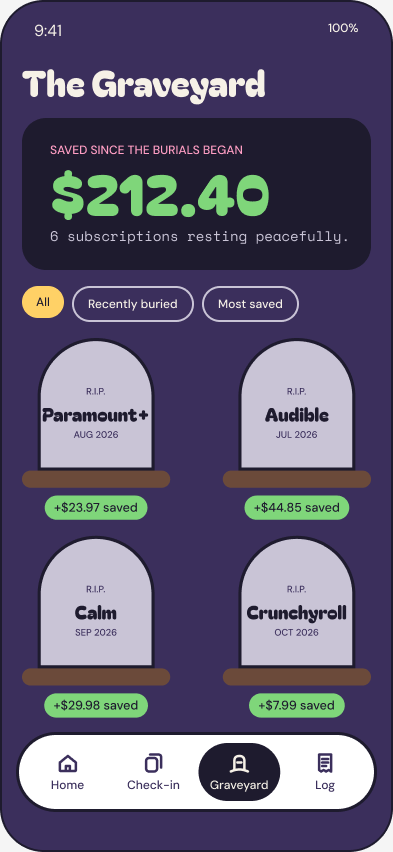
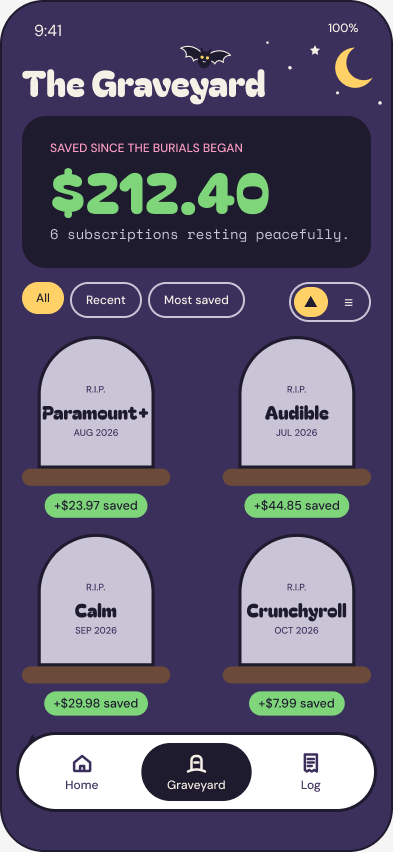
Subscription Graveyard case study: round two
New screens from Figma (ghosts, cheaper plans, switching, search, bats,
zombie, the log), a Pay less step in How it works, a Round two section
on what changed after using the app, and updated process, flow (9 lanes)
and screen count (38).

diff --git a/src/components/SubscriptionGraveyardModal.jsx b/src/components/SubscriptionGraveyardModal.jsx
@@ -64,18 +64,29 @@ const GAP = [
 ]
 
 const STEPS = [
-  ['/graveyard/screen-plot-found.png', 'Find them', 'Link a bank and Plot reads a year of charges, keeping only the ones that repeat. You remove anything that isn’t a subscription.'],
+  ['/graveyard/screen-spot-the-ghosts.png', 'Find them', 'Link a bank and Plot reads a year of charges, keeping only the ones that repeat. Free trials show up as ghosts, and add-ons sit under the subscription they’re billed through.'],
   ['/graveyard/screen-check-in-swipe.png', 'Check in once a month', 'On the 1st, swipe through each subscription and say how much you used it. It takes about two minutes.'],
   ['/graveyard/screen-verdict.png', 'Get the verdict', 'Plot sorts everything into worth it, on thin ice and shall we, and adds up what burying the last group would save.'],
   ['/graveyard/screen-shall-we-sheet.png', 'Bury the ones you don’t use', 'Plot opens the service’s own cancel page, then asks if it worked before it digs a grave.'],
+  ['/graveyard/screen-cheaper-plans.png', 'Pay less for the rest', 'For what you keep, Plot finds cheaper ways to pay: student and teacher discounts, things you pay for twice, yearly plans, plans with ads and bundles. Tap Switch and it walks you through it.'],
   ['/graveyard/screen-graveyard.png', 'Watch the savings', 'Every cancelled subscription gets a tombstone and counts toward what you’ve saved. Bring one back and it’s logged.'],
 ]
 
 const STRIP = [
-  ['/graveyard/screen-dashboard.png', 'Dashboard'], ['/graveyard/screen-plot-found.png', 'Plot found 9'], ['/graveyard/screen-check-in-swipe.png', 'Check-in'],
-  ['/graveyard/screen-verdict.png', 'The verdict'], ['/graveyard/screen-shall-we-sheet.png', 'Shall we?'], ['/graveyard/screen-rest-in-peace.png', 'Rest in peace'],
-  ['/graveyard/screen-graveyard.png', 'The Graveyard'], ['/graveyard/screen-resurrected.png', 'It’s back'],
+  ['/graveyard/screen-dashboard.png', 'Dashboard'], ['/graveyard/screen-spot-the-ghosts.png', 'Spot the ghosts'], ['/graveyard/screen-discounts-and-deals.png', 'Any of these you?'],
+  ['/graveyard/screen-check-in-swipe.png', 'Check-in'], ['/graveyard/screen-verdict.png', 'The verdict'], ['/graveyard/screen-cheaper-plans.png', 'Cheaper plans'],
+  ['/graveyard/screen-switched.png', 'Switched'], ['/graveyard/screen-rest-in-peace-bats.png', 'Rest in peace'], ['/graveyard/screen-graveyard.png', 'The Graveyard'],
+  ['/graveyard/screen-zombie-comeback.png', 'It’s back'], ['/graveyard/screen-the-log.png', 'The log'], ['/graveyard/screen-search-and-add.png', 'Search and add'],
 ]
+
+// Round two: what changed after using the working app every day
+const ROUND_TWO = [
+  ['/graveyard/screen-spot-the-ghosts.png', 'Free trials are ghosts', 'Toggles confused people, so trials became ghosts: tap anything that’s still free and it floats up with a countdown. Trials Plot spots in the bank, even ones inside another subscription, are already ghosts.'],
+  ['/graveyard/screen-search-and-add.png', 'Search, plans and add-ons', 'Search 34 popular services, pick your actual plan, and add what you bought inside it, like a Starz channel in Amazon Prime. Anything else can still be added by hand.'],
+  ['/graveyard/screen-cheaper-plans.png', 'Cheaper plans, switched in the app', 'Tell Plot you’re a student, teacher or in the military and it checks your list. Every deal has a Switch button: Plot hands you to the service, asks if it worked, then updates the bill and counts what you saved.'],
+  ['/graveyard/screen-zombie-comeback.png', 'The undead', 'Burying sends bats out of the grave, each service with its own effect: music notes for Spotify, falling boxes for Prime. Bring one back and a zombie in that service’s colors claws its way out.'],
+]
+const SIMPLER = ['Onboarding went from nine screens to five', 'The dashboard shows one alert at a time', 'Lists, the Graveyard and the log fold up when they get long', 'Every screen got a brand touch: moons, cobwebs, candles, fences']
 
 const MOODS = [
   ['Content', 'Default', 'Dashboard, empty states, onboarding.', '#E5F6E4'],
@@ -92,11 +103,12 @@ const SWATCHES = [
 const PROCESS = [
   ['Three ideas', 'I explored three concepts: a leftovers kitchen companion, a way to bury browser tabs, and a subscription graveyard. The graveyard had the clearest problem and the most room for a personality.'],
   ['Research', 'I compared six apps that handle subscriptions or money habits, plus Duolingo as a reference for a mascot and a small monthly ritual.'],
-  ['System flow', 'I mapped seven lanes: first launch, the monthly check-in, cost per use, trial alerts, burying, the Graveyard, and what the app does behind the scenes.'],
+  ['System flow', 'I mapped the whole app in lanes: first launch, the monthly check-in, cost per use, trial alerts, burying, the Graveyard, what happens behind the scenes, settings, and later cheaper plans and switching.'],
   ['Wireframes', 'Ten grayscale screens to test the flow before any color, from the dashboard to the resurrection log.'],
   ['Branding', 'Plot, the tombstone mascot, sets the tone: a little morbid, deadpan, never shaming. Four moods cover every state in the app.'],
-  ['Final screens and prototype', '28 screens in Figma built from a shared component set, linked into a clickable prototype.'],
+  ['Final screens and prototype', 'Screens in Figma built from a shared component set, linked into a clickable prototype.'],
   ['A working app', 'I turned the design into an app you can add to a phone’s home screen, built with Claude (an AI assistant). It connects to a demo bank through Plaid’s test mode, so no real bank data is used, and its cancel buttons open each service’s real account page.'],
+  ['Round two', 'Living with the app led to a second pass: ghosts for free trials, add-ons, search, discounts, switching to cheaper plans, burial and comeback animations, and a simpler onboarding. Every change went back into Figma, which now has 38 screens and the new components.'],
 ]
 
 const APP_URL = '/graveyard-app/'
@@ -105,7 +117,7 @@ const DETAILS = [
   ['Type', 'Mobile app'],
   ['Year', '2026'],
   ['Tools', 'Figma, HTML, CSS, JavaScript, Plaid (test mode)'],
-  ['Screens', '28'],
+  ['Screens', '38'],
 ]
 
 const TAGS = [['Mobile App', C.moss], ['Branding', C.blush], ['UX / UI', C.candle]]
@@ -135,7 +147,7 @@ function StepsCarousel() {
     >
       {/* Step tabs */}
       <div className="flex flex-wrap gap-2 mb-8 md:mb-10" role="tablist">
-        {['Find', 'Check in', 'Verdict', 'Bury', 'Save'].map((t, n) => (
+        {['Find', 'Check in', 'Verdict', 'Bury', 'Pay less', 'Save'].map((t, n) => (
           <button key={t} role="tab" aria-selected={n === i} onClick={() => setI(n)}
             className="text-sm font-medium px-4 py-2 rounded-full transition-colors"
             style={{ fontFamily: BODY, background: n === i ? C.candle : 'transparent', color: n === i ? C.ink : C.bone, border: `2px solid ${n === i ? C.candle : 'rgba(201,196,214,0.5)'}` }}>
@@ -225,7 +237,7 @@ export default function SubscriptionGraveyardModal({ onClose }) {
               <span className="block text-[44px] md:text-[64px]" style={{ color: C.blush }}>subscription</span>
               <span className="block text-[60px] md:text-[88px]" style={{ color: C.bone }}>graveyard</span>
             </h1>
-            <Body night className="max-w-md mx-auto md:mx-0 mb-7">An app that finds your subscriptions, asks once a month if they were worth it, and helps you cancel the ones that weren’t.</Body>
+            <Body night className="max-w-md mx-auto md:mx-0 mb-7">An app that finds your subscriptions, asks once a month if they were worth it, helps you cancel the ones that weren’t, and finds a cheaper way to pay for the rest.</Body>
             <div className="flex gap-2 flex-wrap justify-center md:justify-start">
               {TAGS.map(([tag, bg]) => (
                 <span key={tag} className="gy-btn text-xs font-medium px-3 py-1 rounded-full cursor-default" style={{ fontFamily: BODY, background: bg, color: C.ink, border: `2px solid ${C.ink}` }}>{tag}</span>
@@ -293,7 +305,7 @@ export default function SubscriptionGraveyardModal({ onClose }) {
         <div className="cs-container pt-16 md:pt-24 pb-12 md:pb-16">
           <Reveal>
             <Kicker night>How it works</Kicker>
-            <H2 night>Find, check in, bury.</H2>
+            <H2 night>Find, check in, bury, pay less.</H2>
           </Reveal>
           <Reveal delay={120}><StepsCarousel /></Reveal>
         </div>
@@ -308,6 +320,39 @@ export default function SubscriptionGraveyardModal({ onClose }) {
             ))}
           </div>
         </div>
+      </section>
+
+      {/* Round two: features added after living with the working app */}
+      <section className="cs-container py-16 md:py-24">
+        <Reveal>
+          <Kicker>Round two</Kicker>
+          <H2>Then I used it.</H2>
+          <Body className="cs-solo">Using the working app every day showed what was missing and what was too busy. I made a second round of changes in the app, then brought every one of them back into the Figma components and screens.</Body>
+        </Reveal>
+        <div className="grid grid-cols-1 md:grid-cols-2 gap-5 md:gap-6 mt-10">
+          {ROUND_TWO.map(([src, t, d], n) => (
+            <Reveal key={t} delay={n * 90}>
+              <div className="gy-card gy-lift h-full rounded-[24px] p-5 md:p-6 grid grid-cols-[38%_1fr] gap-5 items-center" style={{ background: n % 2 ? C.paper : C.ink, border: `2px solid ${C.ink}` }}>
+                <Phone night={!(n % 2)} src={src} alt={t} className="w-full" />
+                <div>
+                  <h3 className="text-[22px] md:text-[26px] leading-tight mb-2" style={{ fontFamily: DISPLAY, color: n % 2 ? C.ink : C.bone }}>{t}</h3>
+                  <p className="text-sm md:text-base leading-relaxed" style={{ fontFamily: BODY, color: n % 2 ? INK_TXT : BONE_TXT }}>{d}</p>
+                </div>
+              </div>
+            </Reveal>
+          ))}
+        </div>
+        <Reveal className="mt-5 md:mt-6">
+          <div className="rounded-[24px] p-6 md:p-7 flex flex-col md:flex-row md:items-center gap-5" style={{ background: C.candle, border: `2px solid ${C.ink}` }}>
+            <div className="gy-wiggle shrink-0" style={{ width: 84 }}><Plot mood="Resurrected" size={84} /></div>
+            <div>
+              <p className="text-[13px] font-bold uppercase tracking-[0.08em] mb-2" style={{ fontFamily: MONO, color: C.dirt }}>And it got simpler</p>
+              <ul className="grid md:grid-cols-2 gap-x-8 gap-y-1.5">
+                {SIMPLER.map(x => <li key={x} className="text-sm md:text-base flex gap-2" style={{ fontFamily: BODY, color: C.ink }}><svg viewBox="0 0 24 24" width="16" height="16" className="shrink-0 mt-1" aria-hidden="true"><path d="M6 21V10a6 6 0 0 1 12 0v11z" fill={C.stone} stroke={C.ink} strokeWidth="2" strokeLinejoin="round" /></svg>{x}</li>)}
+              </ul>
+            </div>
+          </div>
+        </Reveal>
       </section>
 
       {/* Brand, built live */}
@@ -376,7 +421,7 @@ export default function SubscriptionGraveyardModal({ onClose }) {
         </div>
 
         <Reveal as="figure" className="m-0 mt-12">
-          <img src="/graveyard/system-flow.png" alt="The system flow: seven lanes from first launch to behind the scenes" className="w-full rounded-[24px] block" style={{ border: `2px solid ${C.ink}` }} />
+          <img src="/graveyard/system-flow.png" alt="The system flow: nine lanes from first launch to cheaper plans and switching" className="w-full rounded-[24px] block" style={{ border: `2px solid ${C.ink}` }} />
           <figcaption className="text-sm mt-3" style={{ fontFamily: MONO, color: C.plum }}>The system flow. Each box is tagged with the screen it belongs to.</figcaption>
         </Reveal>
 
